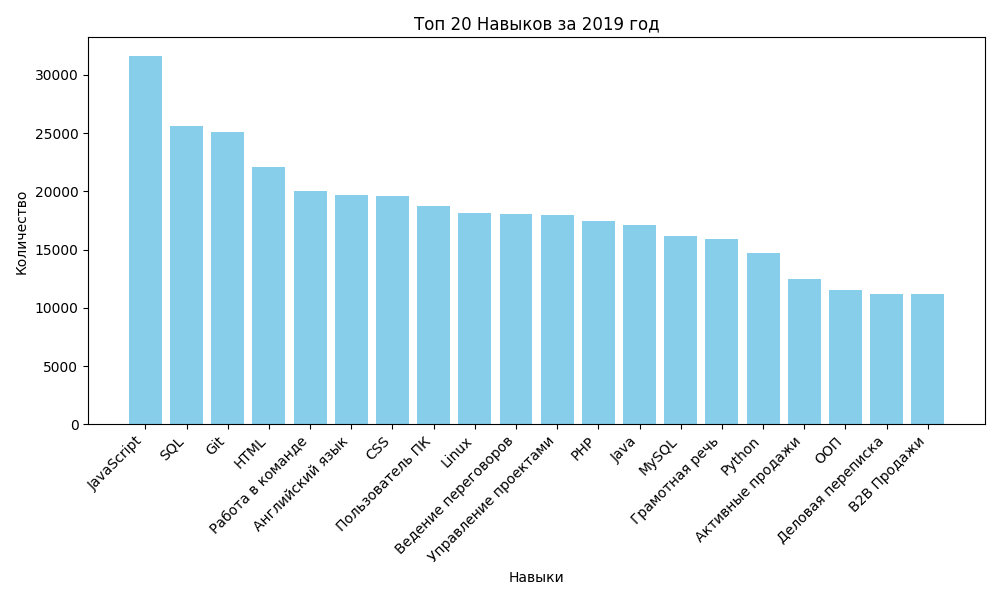
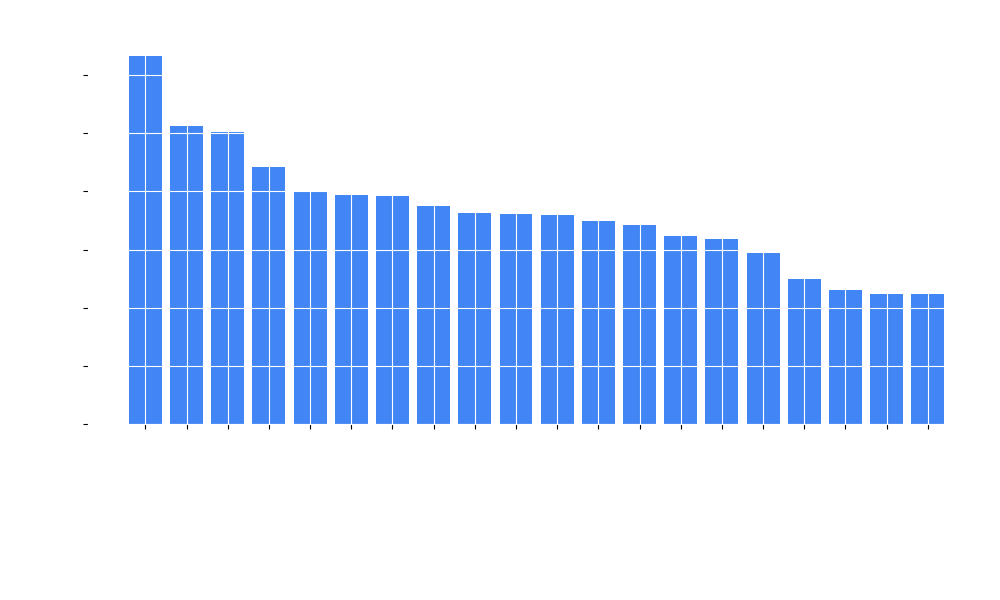
Изменение дизайна на темный

diff --git a/profession_project/static/css/style.css b/profession_project/static/css/style.css
@@ -1,5 +1,5 @@
 body {
-    color: #163152;
+    color: #ffffff;
     font-family: "Roboto", sans-serif;
     font-size: 16px;
     font-style: normal;
@@ -7,16 +7,16 @@ body {
     margin: 0;
     padding: 0;
     display: flex;
-    overflow-x: hidden; /* Prevent horizontal scrolling when the sidebar is open */
+    overflow-x: hidden;
+    background-color: #010409;
 }
 
 main {
-    width: 100%;
-    box-sizing: border-box;
     padding: 0 55px;
     margin: 0 auto;
     margin-bottom: 120px;
-    transition: margin-left 0.3s; /* Add transition for content movement */
+    transition: margin-left 0.3s;
+    background-color: #0d1117;
 }
 
 img {
@@ -48,6 +48,8 @@ h4 {
 .container {
     width: 100%;
     height: 100%;
+    flex: 1;
+    justify-content: space-between;
 }
 
 /* Sidebar */
@@ -60,7 +62,10 @@ h4 {
     width: 0;
     overflow: hidden;
     transition: width 0.3s;
-    background-color: #333;
+    background-color: #161b22;
+    border-top-right-radius: 20px;
+    border-bottom-right-radius: 20px;
+    z-index: 1000;
 }
 
 .sidebar-nav {
@@ -76,24 +81,30 @@ h4 {
     cursor: pointer;
     border: none;
     background: none;
-    color: black;
+    color: white;
     z-index: 1;
 }
 
 .toggle-sidebar.opened {
-    color: white;
     left: 200px;
 }
+
 
 .sidebar-nav-list {
     margin-top: 40px;
     list-style: none;
     padding: 0;
+
+    border-top: 1px solid white;
+    border-bottom: 1px solid white;
 }
 
 .sidebar-nav-list-item {
     margin-bottom: 20px;
-    border-bottom: 1px solid white;
+}
+
+.sidebar-nav-list-item:last-child {
+    margin-bottom: 0;
 }
 
 .sidebar-nav-list-item a {
@@ -118,7 +129,7 @@ h4 {
 
 .main-header,
 .main-footer {
-    background-color: #333;
+    background-color: #010409;
     color: white;
     padding: 10px;
     text-align: center;
@@ -144,6 +155,7 @@ h4 {
 /* Table Styles */
 table {
     border-collapse: collapse;
+    background-color: #161b22;
     width: 100%;
 }
 
@@ -154,7 +166,7 @@ table th, table td {
 }
 
 table th {
-    background-color: #f2f2f2;
+    background-color: #1f2937;
     font-weight: bold;
 }
 
@@ -162,6 +174,7 @@ table th {
 .table-graph-wrapper {
     margin: 0;
     display: flex;
+    gap: 10px;
     justify-content: space-between;
     align-items: center;
     border: 1px solid #dddddd;
@@ -178,5 +191,5 @@ table th {
 
 /* Footer */
 .main-footer {
-    margin-top: 20px;
+    margin-top: auto;
 }

diff --git a/profession_project/static/js/sidebar.js b/profession_project/static/js/sidebar.js
@@ -2,14 +2,17 @@ let sidebarOpen = false; // Изначально панель открыта
 
 function toggleSidebar() {
     const sidebar = document.querySelector('.main-sidebar');
+    const container = document.querySelector('.container');
     const toggleButton = document.querySelector('.toggle-sidebar');
 
     if (sidebarOpen) {
         sidebar.style.width = '0';
-        toggleButton.innerHTML = '☰'; // Изменение значка на ☰
+        container.style.filter = 'none'; // Убираем блюр при закрытии меню
+        toggleButton.innerHTML = '☰';
     } else {
+        container.style.filter = 'blur(5px)'; // Добавляем блюр перед изменением ширины меню
         sidebar.style.width = '250px';
-        toggleButton.innerHTML = '✖'; // Изменение значка на ✖
+        toggleButton.innerHTML = '✖';
     }
 
     sidebarOpen = !sidebarOpen;
@@ -17,3 +20,4 @@ function toggleSidebar() {
     // Добавляем/удаляем класс для изменения цвета кнопки
     toggleButton.classList.toggle('opened', sidebarOpen);
 }
+

diff --git a/vacancies_analysis/skills_graph.py b/vacancies_analysis/skills_graph.py
@@ -4,13 +4,20 @@ import matplotlib.pyplot as plt
 
 def plot_bar_chart(data, title, xlabel, ylabel, filename):
     plt.figure(figsize=(10, 6))
-    plt.bar(data['skill_name'], data['count'], color='skyblue')
-    plt.title(title)
-    plt.xlabel(xlabel)
-    plt.ylabel(ylabel)
-    plt.xticks(rotation=45, ha='right')
+    plt.bar(data['skill_name'], data['count'], color='#4285f4')  # Цвет столбцов
+    plt.title(title, color='white')  # Цвет заголовка
+    plt.xlabel(xlabel, color='white')  # Цвет подписей осей x и y
+    plt.ylabel(ylabel, color='white')
+    plt.xticks(rotation=45, ha='right', color='white')  # Цвет текста на оси x
+    plt.yticks(color='white')  # Цвет текста на оси y
+    plt.gca().spines['bottom'].set_color('white')  # Цвет оси x
+    plt.gca().spines['top'].set_color('white')
+    plt.gca().spines['right'].set_color('white')
+    plt.gca().spines['left'].set_color('white')
+    plt.grid(True, color='white')  # Цвет сетки
     plt.tight_layout()
-    plt.savefig(filename)
+    plt.gca().set_facecolor('#010409')  # Задание цвета фона графика
+    plt.savefig(filename, transparent=True)
     plt.show()
 
 
